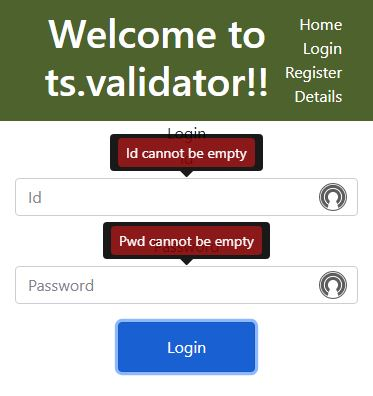
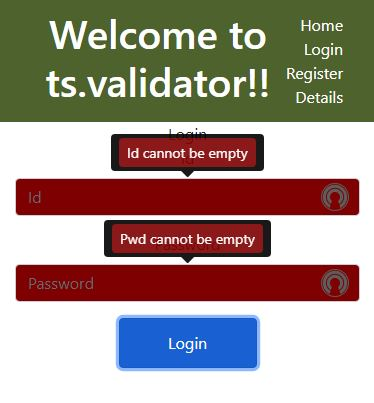
added css for colour coding input on validation.

diff --git a/src/app/components/register/register.component.html b/src/app/components/register/register.component.html
@@ -4,29 +4,90 @@
     </div>
     <div class="panel-body">
         <form>
+            <p>Register</p>
             <div class="form-group">                
                 <ng-template #tipContent><div class="tooltip-inner" *ngFor="let error of validationResult.IdentifierStartsWith('Name')">{{error.Message}}</div></ng-template>
-                <input type="text" id="Name" class="form-control" name="Name" [(ngModel)]="registerUser.Name" (ngModelChange)="!validateMe('Name') ? t.open() : t.close()" [ngbTooltip]="tipContent" #t="ngbTooltip" placeholder="Name" />                  
+                <input 
+                        type="text" 
+                        id="Name" 
+                        class="form-control" 
+                        name="Name" 
+                        [ngClass]="validationResult.IdentifierStartsWith('Name').length > 0 ? 'validation-failure' : 'validation_success'" 
+                        [(ngModel)]="registerUser.Name" 
+                        (ngModelChange)="!validateMe('Name') ? t.open() : t.close()" 
+                        [ngbTooltip]="tipContent" 
+                        #t="ngbTooltip" 
+                        placeholder="Name" />                  
             </div>
             <div class="form-group">                
                 <ng-template #tipContent1><div class="tooltip-inner" *ngFor="let error of validationResult.IdentifierStartsWith('CreditCardNo')">{{error.Message}}</div></ng-template>
-                <input type="text" id="CreditCardNo" class="form-control" name="CreditCardNo" [(ngModel)]="registerUser.CreditCardNo" (ngModelChange)="!validateMe('CreditCardNo') ? t1.open() : t1.close()" [ngbTooltip]="tipContent1" #t1="ngbTooltip" placeholder="Credit Card Number" />                  
+                <input 
+                        type="text" 
+                        id="CreditCardNo" 
+                        class="form-control" 
+                        name="CreditCardNo" 
+                        [ngClass]="validationResult.IdentifierStartsWith('CreditCardNo').length > 0 ? 'validation-failure' : 'validation_success'" 
+                        [(ngModel)]="registerUser.CreditCardNo" 
+                        (ngModelChange)="!validateMe('CreditCardNo') ? t1.open() : t1.close()" 
+                        [ngbTooltip]="tipContent1" 
+                        #t1="ngbTooltip" 
+                        placeholder="Credit Card Number" />                  
             </div>            
             <div class="form-group">                
                 <ng-template #tipContent2><div class="tooltip-inner" *ngFor="let error of validationResult.IdentifierStartsWith('Id')">{{error.Message}}</div></ng-template>
-                <input type="text" id="Id" class="form-control" name="Id" [(ngModel)]="registerUser.Id" (ngModelChange)="!validateMe('Id') ? t2.open() : t2.close()" [ngbTooltip]="tipContent2" #t2="ngbTooltip" placeholder="Id" />                  
+                <input 
+                        type="text" 
+                        id="Id" 
+                        class="form-control" 
+                        name="Id" 
+                        [ngClass]="validationResult.IdentifierStartsWith('Id').length > 0 ? 'validation-failure' : 'validation_success'" 
+                        [(ngModel)]="registerUser.Id" 
+                        (ngModelChange)="!validateMe('Id') ? t2.open() : t2.close()" 
+                        [ngbTooltip]="tipContent2" 
+                        #t2="ngbTooltip" 
+                        placeholder="Id" />                  
             </div>            
             <div class="form-group">                
                 <ng-template #tipContent5><div class="tooltip-inner" *ngFor="let error of validationResult.IdentifierStartsWith('Email')">{{error.Message}}</div></ng-template>
-                <input type="text" id="Email" class="form-control" name="Email" [(ngModel)]="registerUser.Email" (ngModelChange)="!validateMe('Id') ? t5.open() : t5.close()" [ngbTooltip]="tipContent5" #t5="ngbTooltip" placeholder="Email" />                  
+                <input 
+                        type="text" 
+                        id="Email" 
+                        [ngClass]="validationResult.IdentifierStartsWith('Email').length > 0 ? 'validation-failure' : 'validation_success'" 
+                        class="form-control" 
+                        name="Email" 
+                        [(ngModel)]="registerUser.Email" 
+                        (ngModelChange)="!validateMe('Id') ? t5.open() : t5.close()" 
+                        [ngbTooltip]="tipContent5" 
+                        #t5="ngbTooltip" 
+                        placeholder="Email" />                  
             </div>
             <div class="form-group">                
                 <ng-template #tipContent3><div class="tooltip-inner" *ngFor="let error of validationResult.IdentifierStartsWith('Password')">{{error.Message}}</div></ng-template>
-                <input type="password" id="Password" class="form-control" name="Password" [(ngModel)]="registerUser.Password" (ngModelChange)="!validateMe('Password') ? t3.open() : t3.close()" [ngbTooltip]="tipContent3" #t3="ngbTooltip" placeholder="Password" />                  
+                <input 
+                        type="password" 
+                        id="Password" 
+                        class="form-control" 
+                        name="Password" 
+                        [ngClass]="validationResult.IdentifierStartsWith('Password').length > 0 ? 'validation-failure' : 'validation_success'" 
+                        [(ngModel)]="registerUser.Password" 
+                        (ngModelChange)="!validateMe('Password') ? t3.open() : t3.close()" 
+                        [ngbTooltip]="tipContent3" 
+                        #t3="ngbTooltip" 
+                        placeholder="Password" />                  
             </div>
             <div class="form-group">                
                 <ng-template #tipContent4><div class="tooltip-inner" *ngFor="let error of validationResult.IdentifierStartsWith('ConfirmPassword')">{{error.Message}}</div></ng-template>
-                <input type="password" id="ConfirmPassword" class="form-control" name="ConfirmPassword" [(ngModel)]="registerUser.ConfirmPassword" (ngModelChange)="!validateMe('ConfirmPassword') ? t4.open() : t4.close()" [ngbTooltip]="tipContent4" #t4="ngbTooltip" placeholder="Confirm Password" />                  
+                <input 
+                        type="password" 
+                        id="ConfirmPassword" 
+                        class="form-control" 
+                        name="ConfirmPassword" 
+                        [ngClass]="validationResult.IdentifierStartsWith('ConfirmPassword').length > 0 ? 'validation-failure' : 'validation_success'" 
+                        [(ngModel)]="registerUser.ConfirmPassword" 
+                        (ngModelChange)="!validateMe('ConfirmPassword') ? t4.open() : t4.close()" 
+                        [ngbTooltip]="tipContent4" 
+                        #t4="ngbTooltip" 
+                        placeholder="Confirm Password" />                  
             </div>
             <div class="form-group">
                 <button type="submit" class="btn btn-primary" style="width: 40%; height: 50px;" (click)="register()">Register</button>

diff --git a/src/app/components/login/login.component.html b/src/app/components/login/login.component.html
@@ -7,12 +7,32 @@
         <div class="form-group">
             <label class="col-md-4">Id</label>                  
             <ng-template #tipContent><div class="tooltip-inner" *ngFor="let error of validationResult.IdentifierStartsWith('Id')">{{error.Message}}</div></ng-template>
-            <input type="text" id="Id" class="form-control" name="Id" [(ngModel)]="loginUser.Id" (ngModelChange)="!validateMe('Id') ? t.open() : t.close()" [ngbTooltip]="tipContent" #t="ngbTooltip" placeholder="Id" />                  
+            <input 
+                    type="text" 
+                    id="Id" 
+                    class="form-control" 
+                    name="Id" 
+                    [ngClass]="validationResult.IdentifierStartsWith('Id').length > 0 ? 'validation-failure' : 'validation_success'" 
+                    [(ngModel)]="loginUser.Id" 
+                    (ngModelChange)="!validateMe('Id') ? t.open() : t.close()" 
+                    [ngbTooltip]="tipContent" 
+                    #t="ngbTooltip" 
+                    placeholder="Id" />                  
         </div>
         <div class="form-group">
             <label class="col-md-4">Password</label>
             <ng-template #tipContent1><div class="tooltip-inner" *ngFor="let error of validationResult.IdentifierStartsWith('Pwd')" >{{error.Message}}</div></ng-template>
-            <input type="password" id="Pwd" class="form-control" name="Pwd" [(ngModel)]="loginUser.Pwd" (ngModelChange)="!validateMe('Pwd') ? t1.open() : t1.close()" [ngbTooltip]="tipContent1" #t1="ngbTooltip" placeholder="Password" />                                    
+            <input 
+                    type="password" 
+                    id="Pwd" 
+                    class="form-control" 
+                    name="Pwd" 
+                    [ngClass]="validationResult.IdentifierStartsWith('Pwd').length > 0 ? 'validation-failure' : 'validation_success'" 
+                    [(ngModel)]="loginUser.Pwd" 
+                    (ngModelChange)="!validateMe('Pwd') ? t1.open() : t1.close()" 
+                    [ngbTooltip]="tipContent1" 
+                    #t1="ngbTooltip" 
+                    placeholder="Password" />                                    
         </div>
         <div class="form-group">
             <button type="submit" class="btn btn-primary" style="width: 40%; height: 50px;" (click)="login()">Login</button>

diff --git a/src/app/components/register/register.component.scss b/src/app/components/register/register.component.scss
@@ -3,10 +3,34 @@
     color: darkred;
 }
 
+div.tooltip-inner {
+    padding: .25rem .5rem;
+    color: #fff;
+    text-align: center;
+    background-color: darkred !important;
+    border-radius: .25rem;
+    max-width: 500px !important;
+}
+
 .tooltip-inner {
     padding: .25rem .5rem;
     color: #fff;
     text-align: center;
     background-color: darkred !important;
     border-radius: .25rem;
+    max-width: 500px !important;
+}
+
+.tooltip {
+    max-width: 500px !important;
+}
+
+.validation-failure {
+    background-color: darkred;
+    color: white;
+}
+
+.validation-success {
+    color: black;
+    background-color: white;
 }

diff --git a/src/app/components/login/login.component.scss b/src/app/components/login/login.component.scss
@@ -15,3 +15,13 @@
     background-color: darkred !important;
     border-radius: .25rem;
 }
+
+.validation-failure {
+    background-color: darkred;
+    color: white;
+}
+
+.validation-success {
+    color: black;
+    background-color: white;
+}
